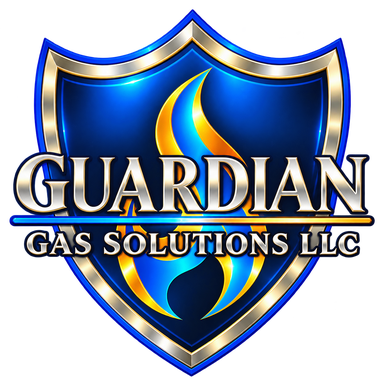
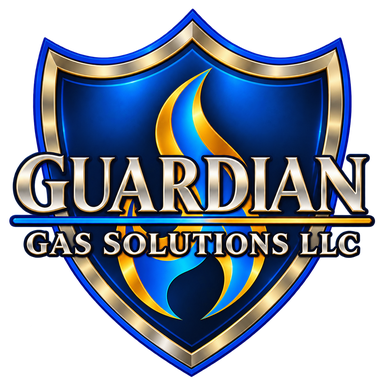
Enlarge website shields slightly and soften metallic glare

diff --git a/css/site.css b/css/site.css
@@ -2328,3 +2328,27 @@ a:focus-visible, button:focus-visible {
   .home-hero, .page-hero, .ggs-reviews-hero { padding-bottom: 105px; }
   footer { padding-top: 110px; }
 }
+
+/* Slightly larger shield placements, with restrained external lighting. */
+.footer-brand img[src*="guardian-shield-cobalt"] {
+  height: 148px;
+  width: auto;
+  max-width: 100%;
+  object-fit: contain;
+  filter: none;
+}
+.footer-brand img[src*="guardian-shield-cobalt"]:hover {
+  transform: scale(1.02);
+  filter: none;
+}
+.safety-feature img[src*="guardian-shield-cobalt"] {
+  width: 204px;
+  height: auto;
+  max-width: 100%;
+  object-fit: contain;
+  filter: none;
+}
+@media (max-width: 640px) {
+  .safety-feature img[src*="guardian-shield-cobalt"] { width: 160px; }
+  .footer-brand img[src*="guardian-shield-cobalt"] { height: 140px; }
+}
